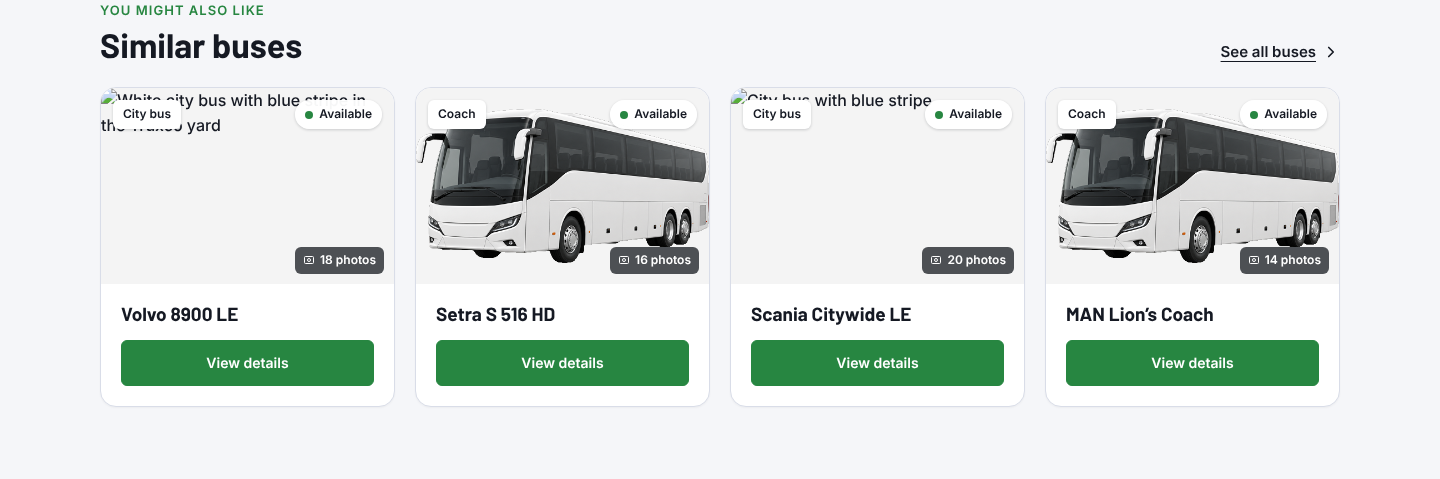
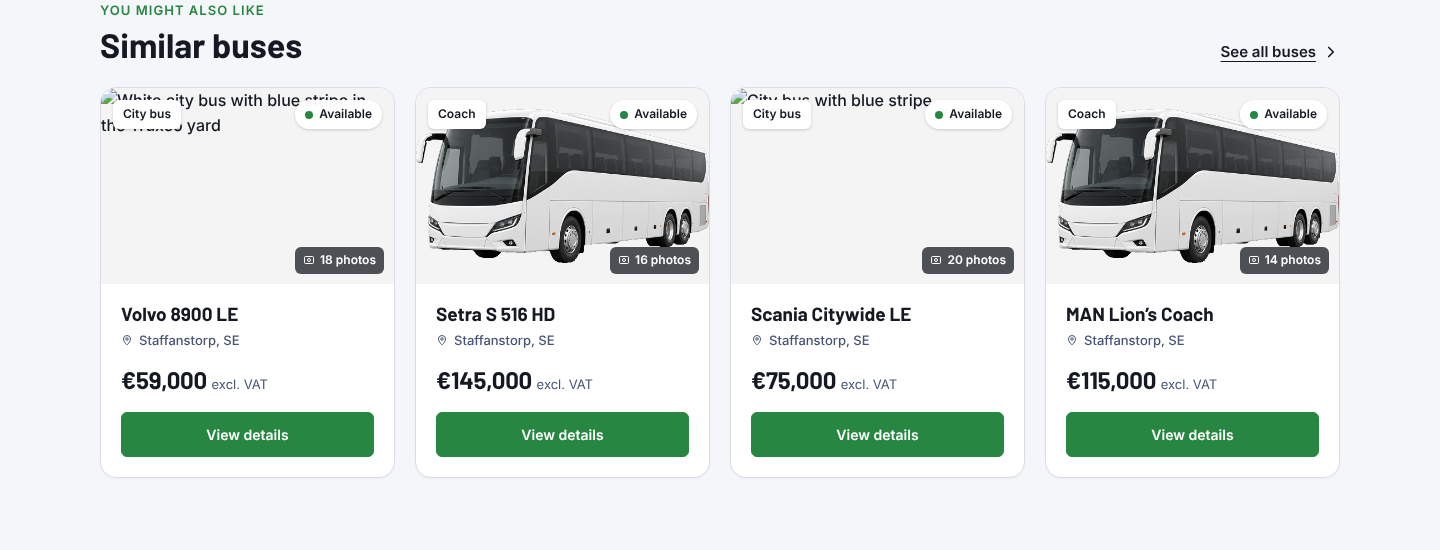
Truxco record: location and price on similar-bus cards
Claude-Session: https://claude.ai/code/session_01CJrfSMbtJkdqaRmDBKHX4E

diff --git a/truxco-design/website-v2/BusDetail.dc.html b/truxco-design/website-v2/BusDetail.dc.html
@@ -382,7 +382,11 @@ a{color:#3050A6}a:hover{color:#151923}
 <span style="position: absolute; top: 12px; left: 12px; display: flex; gap: 6px"><span style="background: #FFFFFF; color: #151923; font-size: 12px; font-weight: 600; padding: 5px 10px; border-radius: 6px; box-shadow: 0 1px 3px rgba(13,16,22,0.18)">{{bus.type}}</span><sc-if value="{{bus.badge}}" hint-placeholder-val="{{true}}"><span style="font-size: 12px; font-weight: 600; padding: 5px 10px; border-radius: 6px; box-shadow: 0 1px 3px rgba(13,16,22,0.18); {{bus.badgeStyle}}">{{bus.badge}}</span></sc-if></span><span style="position: absolute; top: 12px; right: 12px; display: inline-flex; align-items: center; gap: 6px; background: rgba(255,255,255,0.96); color: #151923; font-size: 12px; font-weight: 600; padding: 5px 10px; border-radius: 999px; box-shadow: 0 1px 3px rgba(13,16,22,0.18)"><span aria-hidden="true" style="width: 8px; height: 8px; border-radius: 50%; background: {{bus.statusDot}}"></span>{{bus.status}}</span><span style="position: absolute; right: 10px; bottom: 10px; display: flex; align-items: center; gap: 5px; background: rgba(13,16,22,0.72); color: #FFFFFF; font-size: 12px; font-weight: 600; padding: 4px 8px; border-radius: 6px"><svg aria-hidden="true" width="12" height="12" viewBox="0 0 24 24" fill="none" stroke="currentColor" stroke-width="2"><rect x="3" y="5" width="18" height="14" rx="2"></rect><circle cx="12" cy="12" r="3"></circle></svg>{{bus.photos}} photos</span>
 </div>
 <div style="padding: 18px 20px 20px; display: flex; flex-direction: column; gap: 14px; flex: 1">
+<div style="display: flex; flex-direction: column; gap: 4px">
 <h3 style="margin: 0; font-family: 'Barlow', sans-serif; font-weight: 700; font-size: 19px; line-height: 1.3">{{bus.name}}</h3>
+<span style="display: flex; align-items: center; gap: 6px; font-size: 13px; color: #475476"><svg aria-hidden="true" width="12" height="12" viewBox="0 0 24 24" fill="none" stroke="currentColor" stroke-width="2"><path d="M12 22s7-6.5 7-12a7 7 0 0 0-14 0c0 5.5 7 12 7 12z"></path><circle cx="12" cy="10" r="2.5"></circle></svg>{{bus.loc}}</span>
+<p style="margin: 6px 0 0; font-family: 'Barlow', sans-serif; font-weight: 700; font-size: 24px; letter-spacing: -0.01em">{{bus.price}} <span style="font-family: Inter, sans-serif; font-size: 13px; font-weight: 400; color: #475476; letter-spacing: 0">{{bus.vat}}</span></p>
+</div>
 <div style="display: flex; margin-top: auto">
 <a href="BusDetail.dc.html" style="flex: 1; text-align: center; background: #278641; color: #FFFFFF; text-decoration: none; font-weight: 600; font-size: 14px; padding: 11px; border-radius: 6px; border: 1px solid #278641">View details</a>
 </div>

diff --git a/truxco-design/DESIGN-NOTES.md b/truxco-design/DESIGN-NOTES.md
@@ -168,3 +168,4 @@ Second artboard "UsedBuses.dc.html" in the V2 preview (https://claude.ai/artifac
   - Suggested rules for the other states on the detail page, not built yet: Reserved = amber pill "Reserved until [date]" and a "Join the waiting list" button; Sold = grey pill, buttons replaced by "See similar buses".
 - "Can’t find the right bus?" band (Used buses + Bus detail): the coach cutout is replaced by the support-agent photo from Figma (node 437:930, uploaded as /_blob/4c695799953b218865a34d33f232d3ef, saved in assets/support-agent.png). It is bottom-aligned like in Figma (left -4%, width 108%), its left and top edges fade into the navy card, and the "Typical reply" chip still sits on top. Mobile: the photo is full width under the text.
 - Bus detail "Similar buses" cards simplified. Kept: photo with type, status pill and photo count, the bus name, and a full-width green View details button. Removed: location, price, specs row, inspected line and report link.
+- Similar buses cards: location line and price (with "excl. VAT") added back under the name; the View details button stays. Still no specs, inspected line or report link.
